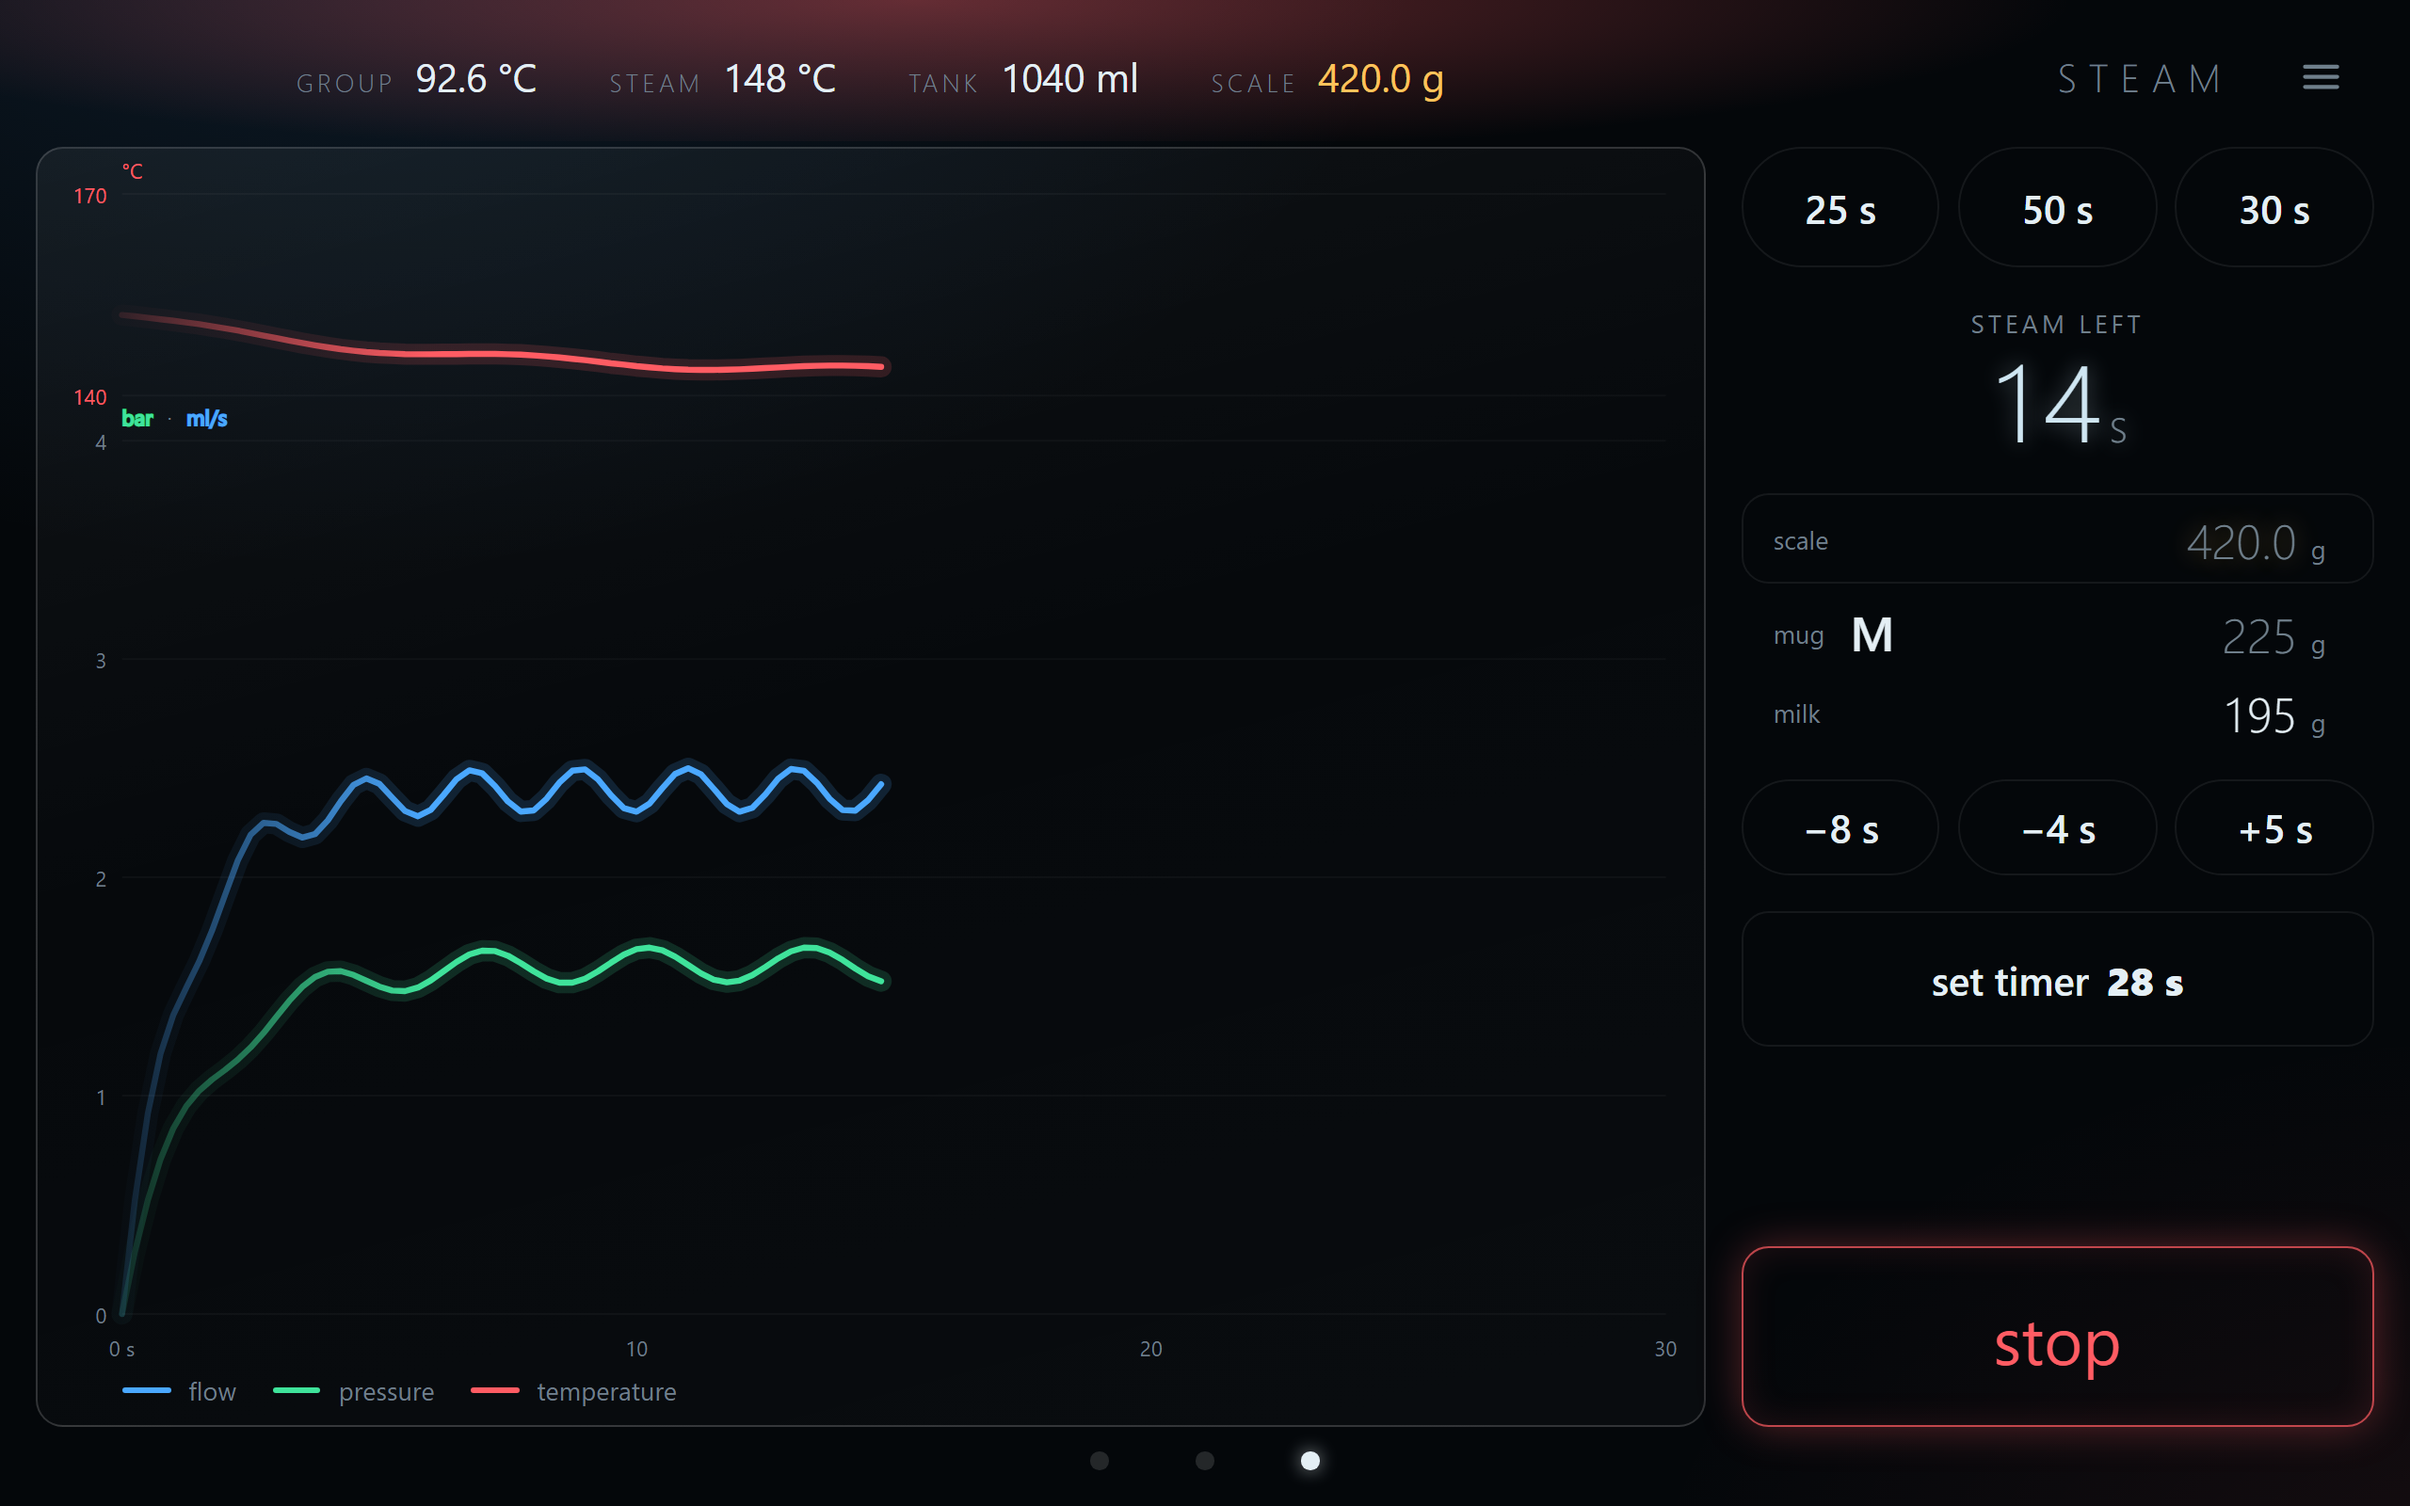
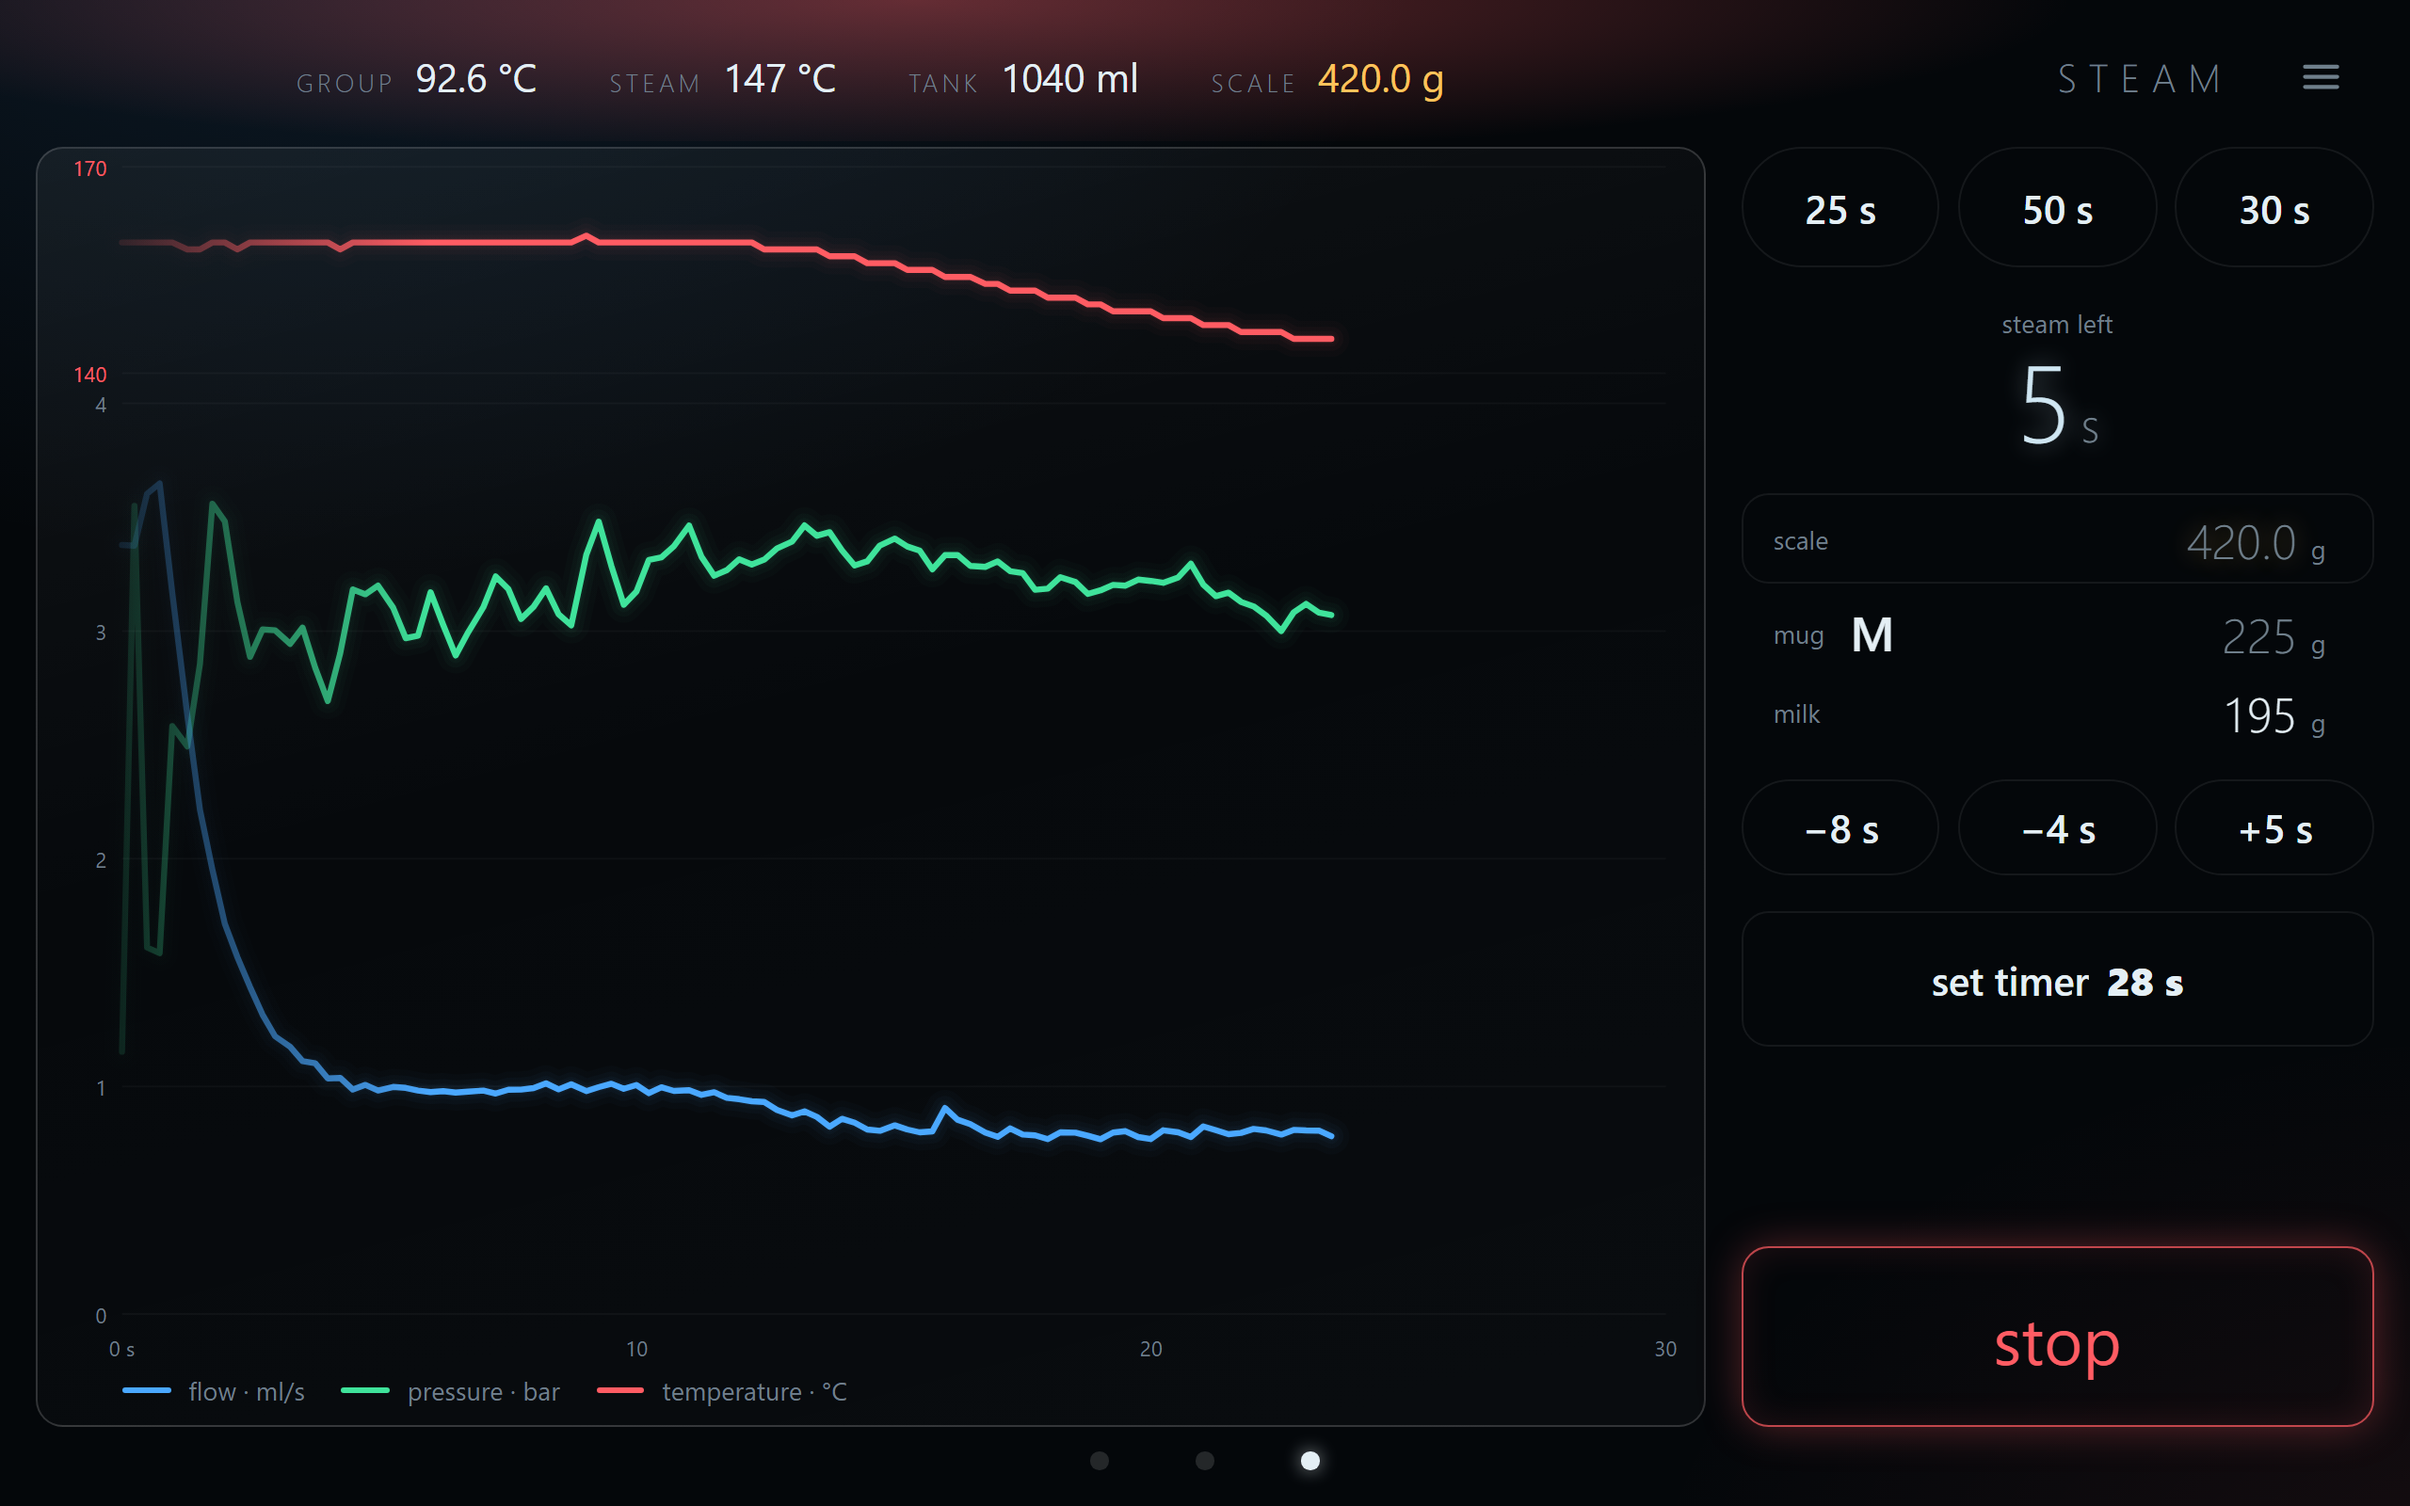
r58-docs-retake: the user guide's pictures show the new look, and the graphs are drawn from a real DE1's shot and steam
Retaken: home-idle, home-shot, swipe-row, steam, history, bean-pick (editor and settings-skin show no changed
screen and are unchanged). README's picture is home-shot. The guide names the graph legend with the units
('flow · ml/s'), says that without it a graph shows no unit (Settings > 6. Skin > Shot graph > legend), and the
steam picture's text says 'while steaming'. The camera is not in the guide.

Records used, copied unchanged from the export of 2026-10-21 (e2e/fixtures/docs-shot.json, docs-steam.json):
shot c1d3b78a-77b7-4131-bc30-6e6271737902 and steam 5e39ad57-afbe-459d-9242-754dbf44fcb7. The mock replays them
(e2e support only); the page's workflow is the shot's own (feelthesun, 48 g). The steam is its first 104 frames,
held, so the picture ends before the real purge's pressure drop.

No rig run: no control, selector or text of an e2e-rig spec changed.
Full mocked e2e: shard 1 had detergent-clean:272 red under load, green alone (for r58-e2e-green); shard 2 green.

Open for the founder: the shot picture stops at 60 % of the shot (the infusion, weight 1.8 g); the finished
graph is in swipe-row.

Task: Z125
Changelog: internal

diff --git a/e2e/mock-gateway.ts b/e2e/mock-gateway.ts
@@ -93,6 +93,36 @@ export const EXPORT_STEAMS = JSON.parse(
   })[];
 }[];
 
+/** A shot record of the export, as `GET /api/v1/shots/<id>` answers (e2e/fixtures). */
+interface ExportRecord {
+  id: string;
+  timestamp: string;
+  workflow: Workflow;
+  measurements: { machine: MachineSnapshot; scale?: ScaleFrame | null }[];
+}
+const exportRecord = (name: string) =>
+  JSON.parse(readFileSync(new URL(`./fixtures/${name}`, import.meta.url), 'utf8')) as ExportRecord;
+
+/** The user guide's shot: a real DE1's A-Flow shot with a scale, read from the export, unchanged. */
+export const DOCS_SHOT = exportRecord('docs-shot.json');
+/** The user guide's steam: a real DE1's steam read from the export, unchanged. */
+export const DOCS_STEAM = exportRecord('docs-steam.json');
+
+/** The record's measurements as a replay's events: a machine frame each, a scale frame when the scale sent one. */
+export function eventsOf(record: ExportRecord): RecordedEvent[] {
+  const first = Date.parse(`${record.measurements[0].machine.timestamp}Z`);
+  const events: RecordedEvent[] = [];
+  let scaleAt = '';
+  for (const { machine, scale } of record.measurements) {
+    events.push({ at: Date.parse(`${machine.timestamp}Z`) - first, machine });
+    if (scale && 'weight' in scale && scale.timestamp !== scaleAt) {
+      scaleAt = scale.timestamp;
+      events.push({ at: Date.parse(`${scale.timestamp}Z`) - first, scale });
+    }
+  }
+  return events.sort((a, b) => a.at - b.at);
+}
+
 /** s, the heating at the start of the recording: espresso frames in which no water moves */
 export const HEATING_SECONDS = 4.5;
 
@@ -115,6 +145,8 @@ export interface ReplayOptions {
   tail?: number;
   /** pressure and its target times this factor: 1.15 takes the recording's 10 bar to 11.5 */
   pressure?: number;
+  /** another recording than the rig's: `eventsOf` a record of the export */
+  events?: RecordedEvent[];
 }
 
 const stamp = (at: number) => new Date(at).toISOString().replace('Z', '000');
@@ -127,7 +159,7 @@ const stamp = (at: number) => new Date(at).toISOString().replace('Z', '000');
  */
 export function shotEvents(options: ReplayOptions = {}): RecordedEvent[] {
   const factor = options.pressure ?? 1;
-  let events = SHOT_EVENTS.map((event) =>
+  let events = (options.events ?? SHOT_EVENTS).map((event) =>
     event.machine && factor !== 1
       ? {
           ...event,
@@ -857,6 +889,25 @@ export class MockGateway {
       this.sendMachine({ ...this.frame(Date.parse(`${timestamp.slice(0, 23)}Z`) + shift), state: { state, substate }, ...values });
     }
     this.state = 'idle';
+  }
+
+  /**
+   * The first `share` of the user guide's steam (`DOCS_STEAM`), sent at once and ending now. With `hold` the
+   * machine goes on sending its latest frame, so the time on screen stands still.
+   */
+  steamRecord(share = 1, hold = false): void {
+    const frames = DOCS_STEAM.measurements.slice(0, Math.round(share * DOCS_STEAM.measurements.length));
+    const shift = Date.now() - Date.parse(`${frames.at(-1)!.machine.timestamp.slice(0, 23)}Z`);
+    for (const { machine } of frames) {
+      this.state = machine.state.state;
+      const frame = {
+        ...machine,
+        timestamp: new Date(Date.parse(`${machine.timestamp.slice(0, 23)}Z`) + shift).toISOString().replace('Z', '000'),
+      };
+      this.sendMachine(frame);
+      if (hold) this.held = frame;
+    }
+    if (!hold) this.state = 'idle';
   }
 
   /**

diff --git a/e2e/user-docs.shots.ts b/e2e/user-docs.shots.ts
@@ -1,10 +1,11 @@
 import { expect, test, type Page } from '@playwright/test';
-import { mockGateway, profile, type MockGateway } from './mock-gateway';
+import { DOCS_SHOT, DOCS_STEAM, eventsOf, mockGateway, profile, type MockGateway } from './mock-gateway';
 import { toPage } from './touch';
 
 // The pictures of the user documentation:
 // `npm run screenshots` writes the eight into docs/user/img/, on the mock gateway at the design
-// target. Every name in them is invented here: no real bean, roaster, device or address.
+// target. Every name in them is invented here: no real bean, roaster, device or address. The curves
+// of the home shot and of the steam are two records of a real DE1 (e2e/fixtures/docs-*.json).
 
 const IMG = 'docs/user/img';
 
@@ -65,18 +66,26 @@ async function shoot(page: Page, name: string) {
   await page.screenshot({ path: `${IMG}/${name}.png`, animations: 'disabled', caret: 'hide' });
 }
 
-test('home idle, home during a shot, and the swipe row', async ({ page }) => {
+test('home idle', async ({ page }) => {
   // No shot in the history yet: home's empty graph, as on the first start (with one, home shows it).
-  const gateway = await gatewayFor(page, false);
+  await gatewayFor(page, false);
   await home(page);
   await expect(page.getByTestId('empty-graph')).toBeVisible();
   await shoot(page, 'home-idle');
+});
 
-  await gateway.replay(page, 0, 0.6);
+test('home during a shot, and the swipe row', async ({ page }) => {
+  const gateway = await gatewayFor(page, false);
+  // The page agrees with the curve: the record's profile and target.
+  gateway.workflow.profile = DOCS_SHOT.workflow.profile!;
+  gateway.workflow.context = { ...gateway.workflow.context, ...DOCS_SHOT.workflow.context };
+  await home(page);
+  const events = eventsOf(DOCS_SHOT);
+  await gateway.replay(page, 0, 0.6, { events });
   await expect(page.getByTestId('home-shot')).toHaveAttribute('data-shot', 'running');
   await expect(page.getByTestId('stop')).toBeEnabled();
   await page.screenshot({ path: `${IMG}/home-shot.png`, animations: 'disabled', caret: 'hide' });
-  await gateway.replay(page, 0.6, 1);
+  await gateway.replay(page, 0.6, 1, { events });
   await expect(page.getByTestId('home-shot')).toHaveAttribute('data-shot', 'finished');
 
   // The row of pages under a finger, half way: home slides away, steam comes in from the right.
@@ -103,11 +112,12 @@ test('the A-Flow editor', async ({ page }) => {
 
 test('the steam page during steaming', async ({ page }) => {
   const gateway = await gatewayFor(page);
+  gateway.workflow.steamSettings = { ...gateway.workflow.steamSettings, ...DOCS_STEAM.workflow.steamSettings };
   await home(page);
   await toPage(page, 'steam');
   gateway.putOnScale(420);
   await page.getByTestId('steam-set-timer').click();
-  gateway.steamFor(15, true);
+  gateway.steamRecord(0.6, true);
   await expect(page.getByTestId('steam-stop')).toBeVisible();
   await shoot(page, 'steam');
 });

diff --git a/docs/user/guide.md b/docs/user/guide.md
@@ -38,7 +38,9 @@ right on a row goes back too, unless the row is open: then it closes the row.
 ## Home is also the shot screen
 
 Start a shot at the machine. Home draws it live: blue is flow, green pressure, red temperature,
-yellow the weight. While it runs the header names the running step; the title **Home** is at the top right. The right column starts level with the graph's top edge and holds the
+yellow the weight. The legend under the graph names each curve with its unit, for example **flow · ml/s**;
+the setting **legend** under Settings > 6. Skin > Shot graph turns it off, and then the graph shows no unit.
+While it runs the header names the running step; the title **Home** is at the top right. The right column starts level with the graph's top edge and holds the
 time, the weight and the live values, each caption on the left and its number on the right; under
 **weight** it says where the shot stops. After the shot the column reads **time, finished** and
 keeps the shot until the next one starts. A line under the weight says why it stopped, as Decaid
@@ -113,7 +115,7 @@ the choice then moves to the other field. Nothing is filled in until you tap.
 
 Steam is started at the machine. The steam page sets its timer from the milk's weight.
 
-![The steam page after a steam: the graph of the last steam, the timer, the scale, mug and milk](img/steam.png)
+![The steam page while steaming: the graph of the steam so far, the timer, the scale, mug and milk](img/steam.png)
 
 Put the mug with milk on the scale. The skin tells which mug it is (**s**, **m** or **l**, by
 its weight) and how much milk is in it. **set timer** sends the time to the machine. Use the
@@ -190,6 +192,8 @@ setting right there, or tap the name over it to go to its place.
 - **Hot water**: the three ratios.
 - **Profile**: the highest flow the editor offers, the dose, the start row of the editor, and
   **convert to 3.0**.
+- **Shot graph**: the **legend** under the graph, which names the curves and their units, and the
+  shot values after a shot.
 - **Display Size**: the size of everything on screen and the line width.
 - **Active Skin**: Decaid's skins; a tap on another one switches to it. **check** has Decaid look
   for newer versions; when it holds another pureflow than this screen runs, **reload** loads it.

diff --git a/README.md b/README.md
@@ -8,7 +8,7 @@ an Android tablet in landscape, and it is built around an editor for A-Flow 3.0 
 for people who own a DE1 and run Decaid on a tablet. A scale is optional, but the steam timer and
 the stop at weight need one.
 
-![Home after a shot: flow, pressure, temperature and weight drawn, the profile, bean, time and weight on the right](docs/user/img/home-shot.png)
+![Home during a shot: flow, pressure, temperature and weight drawn, the profile, bean, time and weight on the right](docs/user/img/home-shot.png)
 
 ## What it does
 
@@ -31,7 +31,7 @@ the stop at weight need one.
 
 ![The A-Flow editor in simple mode](docs/user/img/editor.png)
 
-![The steam page after a steam: the graph of the last steam, the timer, the scale, mug and milk](docs/user/img/steam.png)
+![The steam page while steaming: the graph of the steam so far, the timer, the scale, mug and milk](docs/user/img/steam.png)
 
 ## Install and use
 
